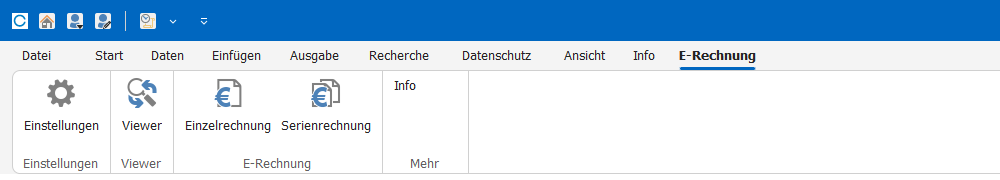
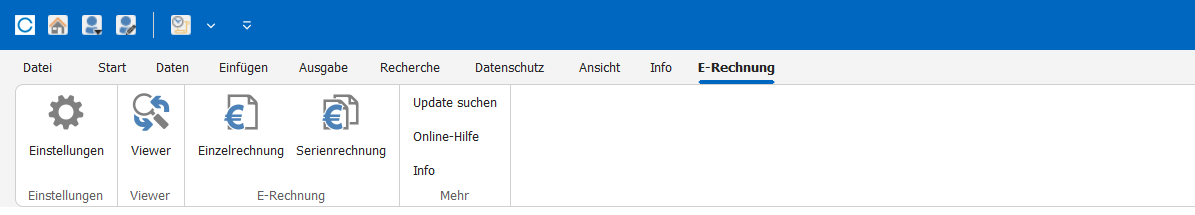
Ribbon

diff --git a/Erste-Schritte/Start.md b/Erste-Schritte/Start.md
@@ -15,6 +15,8 @@ Einstellungen | Öffnet die Konfiguration der E-Rechnung-Formate.
 Viewer  | Konvertiert eine XRechnung in ein für Menschen lesbares PDF Format.
 Einzelrechnung | Erstellt eine Einzelrechnung.
 Serienrechnung | Erstellt eine Sammelrechnung aus mehreren Datensätzen.
+Update suchen | Sucht online nach Updates
+Online-Hilfe | Offnet Online-Hilfe Webseite
 Info | Produkt-Info.
 
 
